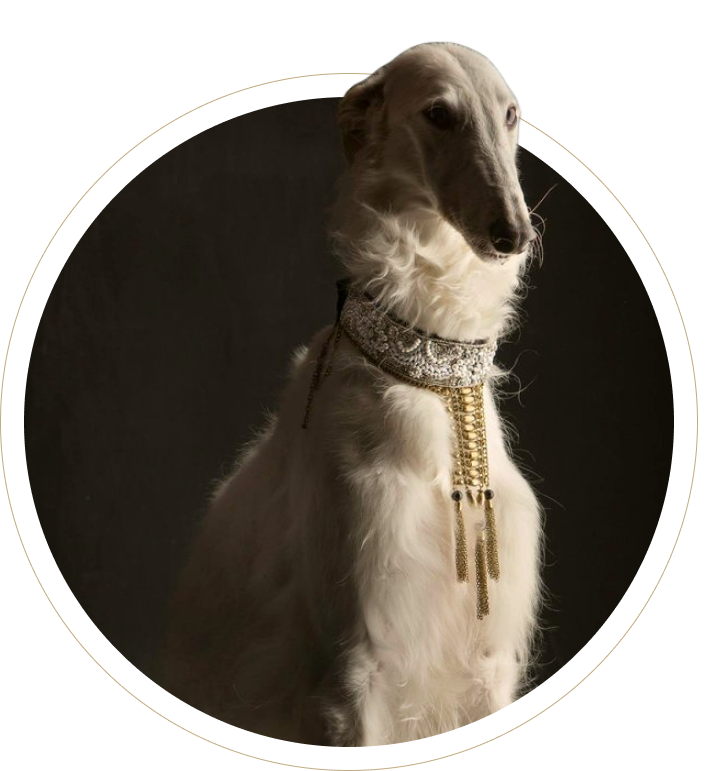
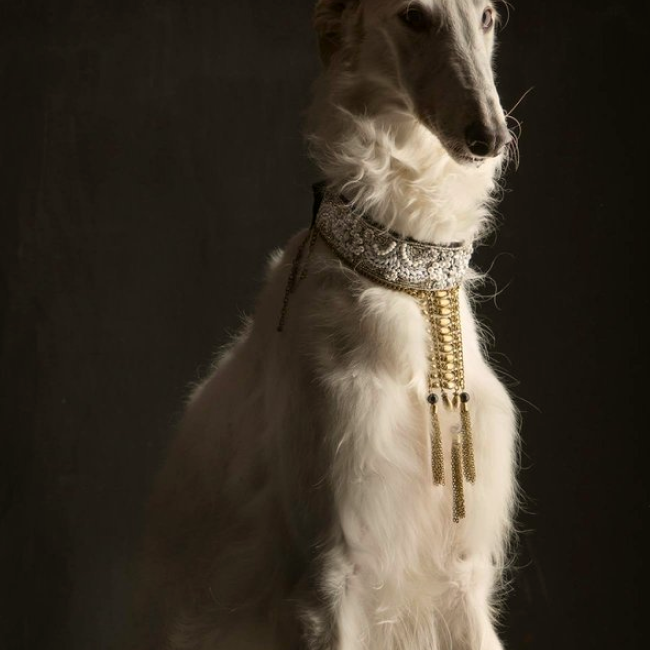
updated headers main image

diff --git a/src/entities/BetterWorld/ui/BetterWorld.module.scss b/src/entities/BetterWorld/ui/BetterWorld.module.scss
@@ -27,15 +27,38 @@
         position: relative;
     }
     
-    &__mainImg {
-        max-width: 770px;
-        max-height: 770px;
-        width: 100%;
+    &__mainImgWrapper {
+        max-width: 700px;
+        max-height: 700px;  
         position: absolute;
         left: 50%;
         top: 50%;
         transform: translate(-50%, -50%);
         z-index: 1;
+        border: 1px solid var(--color-grey-khaki);
+        padding: 15px;
+        border-radius: 50%;
+        
+        img {
+            width: 100%;
+            height: 100%;
+
+            &:nth-child(2) {
+                position: absolute;
+                z-index: 2;
+                width: 102%;
+                height: 81%;
+                top: -12%;
+                left: 0.7%;
+            }
+        }
+    }
+    
+    &__mainImg {
+        width: 100%;
+        height: 100%;
+        overflow: hidden;
+        border-radius: 50%;
     }
     
     &__images {
@@ -47,6 +70,14 @@
         transform: translateY(-50%);
         z-index: 2;
         justify-content: center;
+    }
+    
+    &__imageWrapper {
+        width: 100px;
+        height: 100px;
+        border: 1px solid var(--color-grey-khaki);
+        border-radius: 50%;
+        padding: 2px;
     }
     
     &__image {

diff --git a/src/entities/BetterWorld/ui/BetterWorld.tsx b/src/entities/BetterWorld/ui/BetterWorld.tsx
@@ -1,15 +1,21 @@
 import { classNames } from 'shared/lib/classNames/classNames';
 import { memo } from 'react';
-import cls from './BetterWorld.module.scss';
 import mainDog from 'shared/assets/img/main-dog.png';
+import dogHead from 'shared/assets/img/main-dog-head.png';
 import cat1 from 'shared/assets/icons/betterWorld/cat1.png';
 import dog2 from 'shared/assets/icons/betterWorld/dog2.png';
 import cat3 from 'shared/assets/icons/betterWorld/cat3.png';
+import cls from './BetterWorld.module.scss';
 
 export const BetterWorld = memo(() => {
     return (
         <section className={classNames(cls.BetterWorld, {}, [])}>
-            <img src={mainDog} alt="dog" className={cls.BetterWorld__mainImg} />
+            <div className={cls.BetterWorld__mainImgWrapper}>
+                <div className={cls.BetterWorld__mainImg}>
+                    <img src={mainDog} alt="dog" />
+                </div>
+                <img src={dogHead} alt="dogs-head" className={cls.BetterWorld__mainImgHead} />
+            </div>
             <div className={classNames(cls.BetterWorld__container, {}, ['container'])}>
 
                 <h1>
